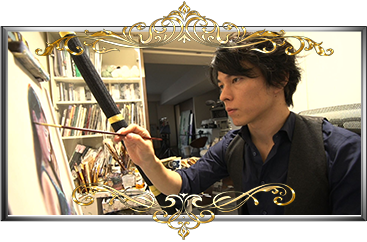
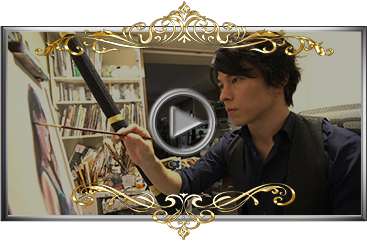
Movies Public

diff --git a/index.html b/index.html
@@ -130,8 +130,8 @@
                     <div id="movie1" class="movies">
                         <h4 class="textIndent">ハワイ・ワードビレッジに誕生したコンドミニアム「ワイエア」動画</h4>
                         <a
-                            href="https://www.youtube.com/embed/oWg4_TtQ6wY"
-                            class="boxer noYoutube"
+                            href="https://www.youtube.com/embed/6eliRc1cGKs"
+                            class="boxer onYoutube"
                             data-gallery="videos"
                             title="<strong>ハワイ・ワードビレッジに誕生したコンドミニアム「ワイエア」</strong><br>
                                   <br>
@@ -173,8 +173,8 @@
                     <div id="movie2" class="movies">
                         <h4 class="textIndent">中島健太画伯が描く肖像画動画</h4>
                         <a
-                            href="https://www.youtube.com/embed/CTeOsWN6tco"
-                            class="boxer noYoutube"
+                            href="https://www.youtube.com/embed/v9eBeWDZSEM"
+                            class="boxer onYoutube"
                             data-gallery="videos"
                             title="<strong>中島健太画伯が描く肖像画</strong><br>
                                   <br>
@@ -232,8 +232,8 @@
                     <div id="movie3" class="movies">
                         <h4 class="textIndent">日本橋髙島屋特別限定品 奥井海生堂 長期蔵囲昆布詰合せ 二段木箱入</h4>
                         <a
-                            href="https://www.youtube.com/embed/w3kwVGfN_lY"
-                            class="boxer noYoutube"
+                            href="https://www.youtube.com/embed/o1gkiGf95lk"
+                            class="boxer onYoutube"
                             data-gallery="videos"
                             title="<strong>日本橋髙島屋特別限定品<br>
                                   奥井海生堂　長期蔵囲昆布詰合せ<br>
@@ -293,8 +293,8 @@
                     <div id="movie4" class="movies">
                         <h4 class="textIndent">京の夏の風物詩と「ＴＷＩＬＩＧＨＴ ＥＸＰＲＥＳＳ瑞風」6日間</h4>
                         <a
-                            href="https://www.youtube.com/embed/0K_Q4qEfSq0"
-                            class="boxer noYoutube"
+                            href="https://www.youtube.com/embed/siq8LbxPJgg"
+                            class="boxer onYoutube"
                             data-gallery="videos"
                             title="<strong>京の夏の風物詩と「ＴＷＩＬＩＧＨＴ ＥＸＰＲＥＳＳ 瑞風」6日間<br>
                                   7月23日出発　5泊6日　※1組2名様限定<br>
@@ -306,13 +306,15 @@
                                   26日〜28日京都発「瑞風」で山陽山陰を周回する2泊3日<br>
                                   価格：148万円〜（税別・お1人様）<br>
                                   <br>
-                                  お問い合わせ先（資料請求・抽選お申し込み）：ＪＴＢロイヤルロード銀座　夢の休日デスク
+                                  お問い合わせ先（資料請求・抽選お申し込み）<br>
+                                  ＪＴＢロイヤルロード銀座　夢の休日デスク
                                   <br>
                                   TEL：0120-201-172<br>
                                   受付時間：午前10時 ～ 午後6時<br>
                                   資料請求・抽選お申込み期日：3月10日（金）まで<br>
                                   <br>
-                                  お電話でお問い合わせ頂いた方には3月10日以降募集書面（パンフレット）を送付致します。<br>
+                                  お電話でお問い合わせ頂いた方には<br>
+                                  3月10日以降募集書面（パンフレット）を送付致します。<br>
                                   お問い合わせ多数の場合は抽選となります。<br>
                                   <br>
                                   お問い合わせの際は、<br>
